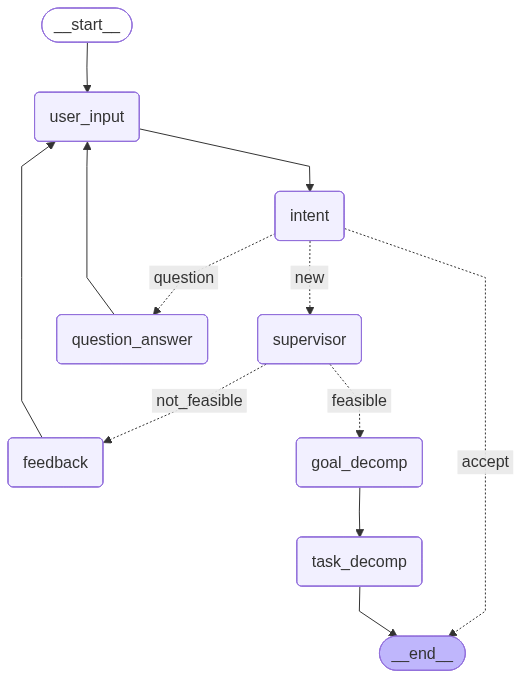
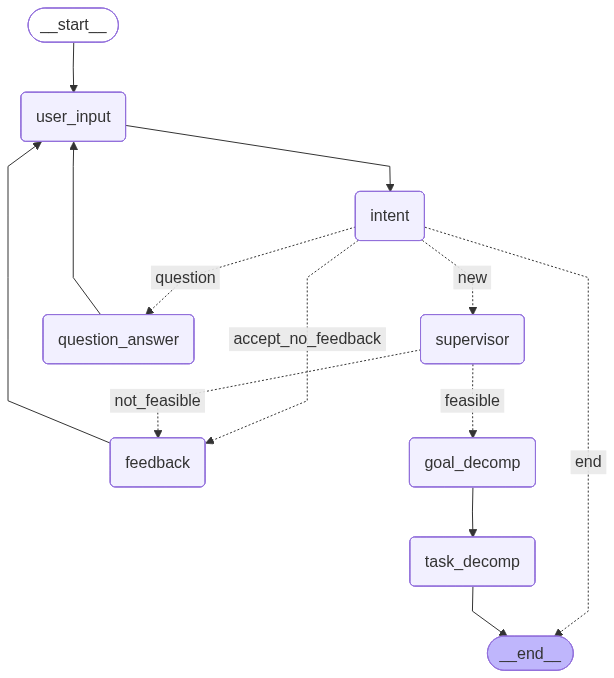
updated feedback node.

diff --git a/src/runner/graph.py b/src/runner/graph.py
@@ -271,6 +271,8 @@ def make_normal_node(
     state_key="history",
     state_append=True,
     node_name="NODE",
+    make_outputs: Callable | None = None,
+    modify_state: Callable | None = None,
     printout=True,
     skip_parser: bool = False,
 ) -> StateCallable:
@@ -293,9 +295,15 @@ def make_normal_node(
         if chain_resources.returns_pydantic:
             inputs["format_instructions"] = chain_resources.format_instructions
 
-        result, headers = chain_resources.run(inputs)
+        result, _ = chain_resources.run(inputs)
+        if make_outputs is not None:
+            result = make_outputs(result)
+
         if chain_resources.returns_pydantic:
             result = result.model_dump()
+
+        if modify_state is not None:
+            state = modify_state(state, result)
 
         if state_append:
             state[state_key].append(result)
@@ -331,22 +339,28 @@ def make_user_input_node(
     return node
 
 
-def make_plan_graph(state_schema, goal_node, task_node, thread_id: str = "default"):
-    workflow = StateGraph(state_schema=state_schema)
-    # * ============================================================
-    workflow.add_node("goal_node", goal_node)
-    workflow.add_node("task_node", task_node)
+# ! rag node
+def make_rag_node(
+    retriever,
+    state_key="rag_text",
+    state_append=False,
+    node_name="RAG_NODE",
+):
+    def node(state):
+        logger.info(f"============= {node_name} ==============")
+        # Here you would implement the logic to retrieve documents.
+        # For demonstration, we'll just log a placeholder.
+        query = state.get("user_queries", [])[-1] if state.get("user_queries") else ""
+        documents = retriever.invoke(query)
+        rag_texts = [doc.page_content for doc in documents]
+        if state_append:
+            state[state_key].extend(rag_texts)
+        else:
+            state[state_key] = rag_texts
+        logger.info(f"RAG Texts Retrieved: {rag_texts}\n")
+        return state
 
-    # * ============================================================
-    workflow.add_edge(START, "goal_node")
-    workflow.add_edge("goal_node", "task_node")
-    workflow.add_edge("task_node", END)
-
-    # memory = MemorySaver()
-    # graph = workflow.compile(checkpointer=memory)
-    graph = workflow.compile(checkpointer=None)
-    config = {"configurable": {"thread_id": thread_id}}
-    return graph, config
+    return node
 
 
 def make_supervised_plan_graph(
@@ -373,7 +387,8 @@ def make_supervised_plan_graph(
         routers["intent"],
         {
             "end": END,
-            "accept": END,
+            "accept": "supervisor",
+            "accept_no_feedback": "feedback",
             "new": "supervisor",
             "question": "question_answer",
         },

diff --git a/src/runner/runner.py b/src/runner/runner.py
@@ -99,41 +99,6 @@ class Runner:
         return final_states
 
 
-class PlanRunner(Runner):
-    def build_graph(self):
-        goal_node = graph_module.make_normal_node(
-            llm=self._get_llm(
-                model_name=self.config.runner.goal_decomp_node.model_name,
-                prompt_cache_key=self.config.runner.goal_decomp_node.prompt_cache_key,
-            ),
-            prompt_text=planning_prompt.GOAL_DECOMP_NODE_PROMPT,
-            make_inputs=planning_prompt.make_goal_decomp_node_inputs,
-            parser_output=planning_prompt.GoalDecompNodeParser,
-            state_key="subgoals",
-            state_append=False,
-            node_name="GOAL_NODE",
-        )
-        task_node = graph_module.make_normal_node(
-            llm=self._get_llm(
-                model_name=self.config.runner.task_decomp_node.model_name,
-                prompt_cache_key=self.config.runner.task_decomp_node.prompt_cache_key,
-            ),
-            prompt_text=planning_prompt.TASK_DECOMP_NODE_PROMPT,
-            make_inputs=planning_prompt.make_task_decomp_node_inputs,
-            parser_output=planning_prompt.TaskDecompNodeParser,
-            state_key="tasks",
-            state_append=False,
-            node_name="TASK_NODE",
-        )
-
-        return graph_module.make_plan_graph(
-            state_schema=StateSchema,
-            goal_node=goal_node,
-            task_node=task_node,
-            thread_id="planning",
-        )
-
-
 class SupervisedPlanRunner(Runner):
     def build_graph(self):
         nodes = {}
@@ -166,6 +131,7 @@ class SupervisedPlanRunner(Runner):
             state_key="supervisor_result",
             state_append=False,
             node_name="SUPERVISOR_NODE",
+            modify_state=process_prompt.modify_supervisor_state,
         )
         routers["supervisor"] = process_prompt.route_supervisor
 

diff --git a/src/prompts/process_prompt.py b/src/prompts/process_prompt.py
@@ -66,10 +66,15 @@ class IntentParser(BaseModel):
 
 def route_intent(state):
     intent = state.get("intent_result", {}).get("intent")
+    feedback_loop_count = state.get("feedback_loop_count", 0)
+
     if intent == "stop":
         return "end"
     elif intent == "accept":
-        return "accept"
+        if feedback_loop_count > 0:
+            return "accept"
+        else:
+            return "accept_no_feedback"
     elif intent == "new":
         return "new"
     elif intent == "question":
@@ -151,7 +156,7 @@ Example:
 
 If ANY of these conditions fail:
 - Set is_feasible = false
-- Provide 1–2 short blockers in `reasons`
+- Provide 1-2 short blockers in `reasons`
 
 ------------------------------------------------
 ## HARD RULES FOR DESTINATION-REQUIRED ACTIONS
@@ -213,6 +218,13 @@ class SupervisorParser(BaseModel):
             "and produce ONE complete Korean mission string representing the user's most recent intent."
         ),
     )
+
+
+def modify_supervisor_state(state, result):
+    is_feasible = state.get("supervisor_result", {}).get("is_feasible")
+    if is_feasible is False:
+        state["feedback_loop_count"] = state.get("feedback_loop_count", 0) + 1
+    return state
 
 
 def route_supervisor(state):

diff --git a/src/runner/state.py b/src/runner/state.py
@@ -21,6 +21,7 @@ class StateSchema(TypedDict, total=False):
     intent_result: Dict[str, Any]
     supervisor_result: Dict[str, Any]
     feedback_result: Dict[str, Any]
+    feedback_loop_count: int
     subgoals: List[str]
     tasks: List[Dict[str, Any]]
     question_answers: List[Dict[str, Any]]
@@ -41,6 +42,7 @@ class StateMaker:
             "intent_result": {},
             "supervisor_result": {},
             "feedback_result": {},
+            "feedback_loop_count": 0,
             "subgoals": [],
             "tasks": [],
             "question_answers": [],
